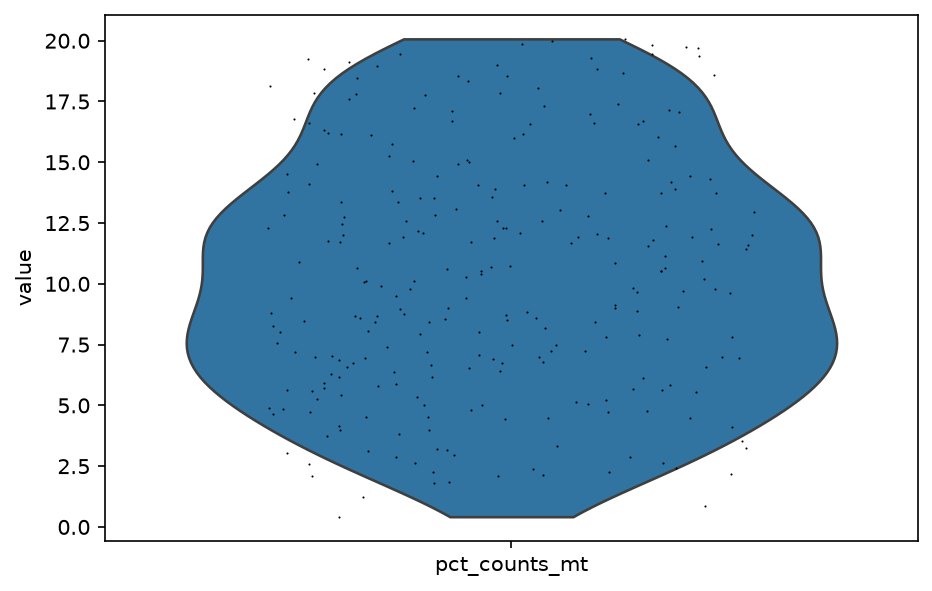
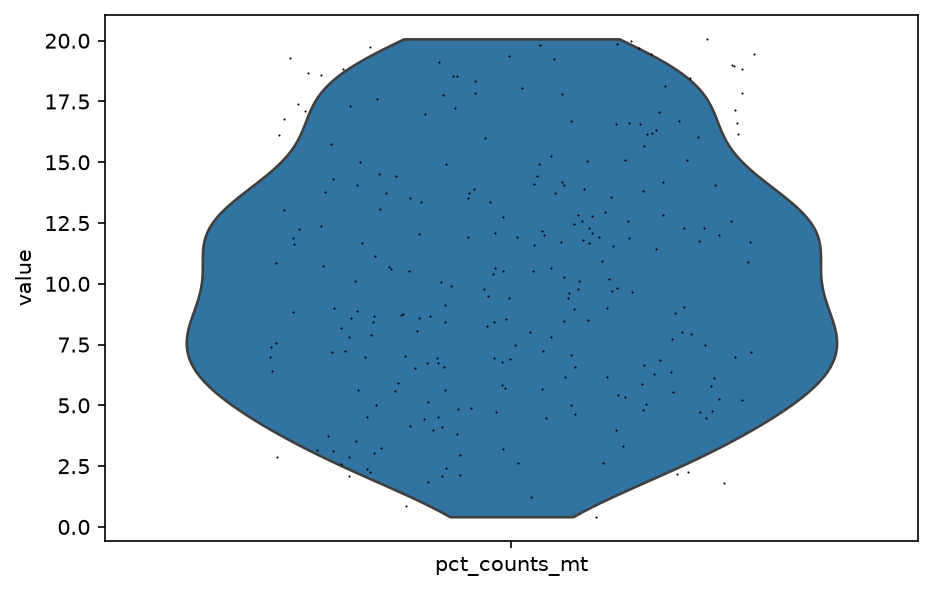
Add README, finalize documentation for portfolio release

diff --git a/scripts/05_load_to_db.py b/scripts/05_load_to_db.py
@@ -26,14 +26,17 @@ adata = sc.read_h5ad(f"{output_dir}/04_annotated.h5ad")
 
 con = duckdb.connect(d["db_path"])
 
+# Clear existing rows so this script can be re-run safely without duplicating data
 con.execute("DELETE FROM gene_expression_summary")
 con.execute("DELETE FROM clusters")
 con.execute("DELETE FROM qc_metrics")
 con.execute("DELETE FROM datasets")
 con.execute("DELETE FROM runs")
 
+# Read the raw cell count directly from the pre-QC file (backed mode: no full load)
 n_cells_raw = sc.read_h5ad(f"{output_dir}/01_loaded.h5ad", backed="r").n_obs
 
+# --- 1. datasets ---
 dataset_row = pd.DataFrame([{
     "id": 1, "accession": d["accession"], "n_cells_raw": n_cells_raw,
     "n_cells_after_qc": adata.n_obs, "download_date": d["download_date"],
@@ -41,6 +44,7 @@ dataset_row = pd.DataFrame([{
 }])
 con.execute("INSERT INTO datasets SELECT * FROM dataset_row")
 
+# --- 2. qc_metrics ---
 qc_row = pd.DataFrame([{
     "id": 1, "dataset_id": 1, "min_genes_threshold": q["min_genes"],
     "max_pct_mt_threshold": q["max_pct_mt"],
@@ -49,6 +53,7 @@ qc_row = pd.DataFrame([{
 }])
 con.execute("INSERT INTO qc_metrics SELECT * FROM qc_row")
 
+# --- 3. clusters ---
 crosstab = pd.crosstab(adata.obs["leiden"], adata.obs["cell_type"])
 
 cluster_rows = []
@@ -69,9 +74,13 @@ for leiden_label, row in crosstab.iterrows():
 clusters_df = pd.DataFrame(cluster_rows)
 con.execute("INSERT INTO clusters SELECT * FROM clusters_df")
 
+# --- 4. gene_expression_summary ---
 expr_rows = []
 next_expr_id = 1
 for gene, ensembl_id in gene_ids.items():
+    # Look up the row by symbol to get expression values, but always store the
+    # Ensembl ID verified in config/genes.yaml — never whatever the file's own
+    # index happens to use (it can mix Ensembl codes and gene symbols)
     match = adata.raw.var.loc[adata.raw.var["feature_name"] == gene]
     if match.empty:
         print(f"Warning: {gene} not found, skipping")
@@ -95,6 +104,9 @@ for gene, ensembl_id in gene_ids.items():
 expr_df = pd.DataFrame(expr_rows)
 con.execute("INSERT INTO gene_expression_summary SELECT * FROM expr_df")
 
+# --- 5. runs ---
+# Log the exact commit and versions used, so any result can be traced back to
+# the code that produced it
 git_commit = subprocess.check_output(["git", "rev-parse", "--short", "HEAD"], text=True).strip()
 
 run_row = pd.DataFrame([{

diff --git a/scripts/02_clean.py b/scripts/02_clean.py
@@ -13,10 +13,12 @@ with open(args.config) as f:
 output_dir = params["dataset"]["output_dir"]
 min_genes = params["qc"]["min_genes"]
 max_pct_mt = params["qc"]["max_pct_mt"]
-max_genes = params["qc"].get("max_genes")
+max_genes = params["qc"].get("max_genes")  # optional: guards against likely doublets
 
 adata = sc.read_h5ad(f"{output_dir}/01_loaded.h5ad")
 
+# Recompute QC metrics on raw counts — .X at this point holds normalized values,
+# which would give meaningless mitochondrial percentages if used directly
 adata.var["mt"] = adata.var["feature_name"].str.startswith("MT-")
 adata_raw = adata.raw.to_adata()
 adata_raw.var["mt"] = adata.var["mt"].values
@@ -26,18 +28,23 @@ adata.obs["total_counts"] = adata_raw.obs["total_counts"].values
 adata.obs["n_genes_by_counts"] = adata_raw.obs["n_genes_by_counts"].values
 adata.obs["pct_counts_mt"] = adata_raw.obs["pct_counts_mt"].values
 
-del adata_raw
+del adata_raw  # free this copy, we already extracted what we needed
 
+# Exact percentiles for picking thresholds precisely, complementing the plots below
 qc_summary = adata.obs[["n_genes_by_counts", "pct_counts_mt"]].describe(
     percentiles=[.01, .05, .25, .5, .75, .95, .99]
 )
 print(qc_summary)
 qc_summary.to_csv("figures/qc_summary.csv")
+print("Saved to figures/qc_summary.csv")
 
+# Plot distributions to choose/confirm thresholds visually
 save_fig(sc.pl.violin(adata, ["n_genes_by_counts"], jitter=0.3, show=False), "violin_qc_before.png")
 save_fig(sc.pl.violin(adata, ["pct_counts_mt"], jitter=0.3, show=False), "violin_qc_2_before.png")
 
+# Apply the QC thresholds decided from the plots and percentiles above
 n_before = adata.n_obs
+
 adata = adata[adata.obs["n_genes_by_counts"] >= min_genes, :]
 if max_genes is not None:
     adata = adata[adata.obs["n_genes_by_counts"] <= max_genes, :]

diff --git a/scripts/04_annotate.py b/scripts/04_annotate.py
@@ -17,19 +17,29 @@ resolution = params["clustering"]["leiden_resolution"]
 
 adata = sc.read_h5ad(f"{output_dir}/03_clustered.h5ad")
 
+# Build a neighborhood graph using the number of PCs chosen from the elbow plot
 sc.pp.neighbors(adata, n_pcs=n_pcs)
+
+# Compute UMAP coordinates for visualization
 sc.tl.umap(adata)
+
+# Cluster cells into groups based on their neighborhood graph
 sc.tl.leiden(adata, resolution=resolution, flavor="igraph", n_iterations=2, directed=False)
 
+# Visualize clusters alongside the cell types already annotated in this dataset
 ax = sc.pl.umap(adata, color=["leiden", "cell_type"], show=False)
 save_fig(ax, "umap_clusters.png")
 
 adata.write(f"{output_dir}/04_annotated.h5ad")
 print(f"Saved to {output_dir}/04_annotated.h5ad")
 
+# Compare discovered clusters against the dataset's own cell-type annotation
 crosstab = pd.crosstab(adata.obs["leiden"], adata.obs["cell_type"])
 print(crosstab)
 
+# Sanity check: a marker gene known to be high in a specific cell type,
+# confirms the pipeline's biology looks right before trusting the results
 positive_control_gene = params["sanity_check"]["positive_control_gene"]
 ax = sc.pl.violin(adata, [positive_control_gene], groupby="cell_type", rotation=90, show=False)
 save_fig(ax, f"violin_{positive_control_gene.lower()}_check.png")
+print(f"Sanity check saved: figures/violin_{positive_control_gene.lower()}_check.png")

diff --git a/scripts/00_check_genes.py b/scripts/00_check_genes.py
@@ -1,18 +1,30 @@
+import argparse
 import scanpy as sc
 import yaml
 
-with open("config/params.yaml") as f:
+# Accept a config file from the command line, defaulting to the real dataset —
+# lets this script run against either the real or the test config without edits
+parser = argparse.ArgumentParser()
+parser.add_argument("--config", default="config/params.yaml")
+args = parser.parse_args()
+
+with open(args.config) as f:
     params = yaml.safe_load(f)
 
+# This script always reads the ORIGINAL CELLxGENE file, never a processed one —
+# var_names here are still Ensembl IDs, so we can look genes up directly by code
 adata = sc.read_h5ad(params["dataset"]["input_path"])
 
 with open("config/genes.yaml") as f:
     ids = yaml.safe_load(f)["genes"]
 
 genes = list(ids.keys())
+
+# Sanity check 1: confirm the genes are even listed in this dataset's annotation
 found = adata.var[adata.var["feature_name"].isin(genes)]
 print(found)
 
+# Sanity check 2: confirm they're actually detected in cells, not just annotated
 print("\n--- detection per cell ---")
 for name, ensg in ids.items():
     values = adata.raw[:, ensg].X

diff --git a/scripts/03_cluster.py b/scripts/03_cluster.py
@@ -15,20 +15,29 @@ output_dir = params["dataset"]["output_dir"]
 
 adata = sc.read_h5ad(f"{output_dir}/02_cleaned.h5ad")
 
+# Start from raw counts again, not the pre-processed X from the original file
 adata = adata.raw.to_adata()
+
+# Keep a copy of raw counts before transforming anything
 adata.layers["counts"] = adata.X.copy()
 
+# Normalize: make every cell's total count comparable, then log-transform
 sc.pp.normalize_total(adata, target_sum=1e4)
 sc.pp.log1p(adata)
 
+# Find the genes that vary the most across cells — these carry the real signal
 sc.pp.highly_variable_genes(adata, n_top_genes=2000)
 
+# Save the full normalized data before subsetting to HVGs only,
+# so genes of interest remain queryable even if not "highly variable"
 adata.raw = adata
 adata = adata[:, adata.var.highly_variable]
 
+# Scale so every gene contributes equally to the PCA
 sc.pp.scale(adata, max_value=10)
 sc.tl.pca(adata, svd_solver="arpack")
 
+# Elbow plot: helps decide how many PCs actually carry signal (set in config)
 sc.pl.pca_variance_ratio(adata, n_pcs=50, show=False)
 save_fig(plt.gcf(), "pca_variance_ratio_elbow.png")
 

diff --git a/scripts/create_db.py b/scripts/create_db.py
@@ -11,8 +11,11 @@ with open(args.config) as f:
 
 db_path = params["dataset"]["db_path"]
 
+# Creates a fresh .duckdb file (or connects to it if it already exists)
 con = duckdb.connect(db_path)
 
+# Apply the table definitions — will fail if the tables already exist,
+# which is intentional: it protects against silently overwriting a schema
 with open("scripts/schema.sql") as f:
     con.execute(f.read())
 

diff --git a/scripts/06_query.py b/scripts/06_query.py
@@ -14,6 +14,8 @@ db_path = params["dataset"]["db_path"]
 
 con = duckdb.connect(db_path)
 
+# JOIN pulls in cluster metadata (cell type, size) alongside the expression
+# numbers, which live in separate tables by design
 result = con.execute("""
     SELECT
         c.leiden_label,

diff --git a/README.md b/README.md
@@ -1,0 +1,46 @@
+
+## Quickstart
+
+```bash
+# Environment
+conda create -n prostata python=3.11 -y
+conda activate prostata
+pip install -r requirements.txt
+
+# Run the full pipeline on the small test dataset (already included in the repo)
+python scripts/create_db.py --config config/params.test.yaml
+python scripts/01_load.py --config config/params.test.yaml
+python scripts/02_clean.py --config config/params.test.yaml
+python scripts/03_cluster.py --config config/params.test.yaml
+python scripts/04_annotate.py --config config/params.test.yaml
+python scripts/05_load_to_db.py --config config/params.test.yaml
+
+# Query the results
+python scripts/06_query.py --gene PCA3 --config config/params.test.yaml
+```
+
+To reproduce the full result on the 68,322-cell dataset: download it from [CELLxGENE](https://cellxgene.cziscience.com/e/881e0e6b-a185-45f1-9b56-81606e91e7ff.cxg/) (accession `68b23fda-7191-46a5-8870-819feca3e66e`), place it at the path set in `config/params.yaml`, and run the same six commands without `--config` (it defaults to `config/params.yaml`).
+
+## Database schema
+
+Five tables in DuckDB: `datasets`, `qc_metrics`, `clusters`, `gene_expression_summary`, and `runs` — the last one logs the exact git commit, package versions, and parameters used for each run, so any result can be traced back to the code that produced it. Foreign keys enforce referential integrity between tables.
+
+## Reproducibility
+
+Every parameter (QC thresholds, number of PCA components, positive-control gene, dataset paths) lives in a single YAML config, never hardcoded in the scripts — switching datasets or re-running with different thresholds never requires touching code. `tests/test_pipeline.py` runs the entire pipeline end-to-end against the small test dataset and verifies the database is populated correctly; this runs automatically on every push via GitHub Actions.
+
+## Limitations
+
+- This is an exploratory analysis, not a publication-ready finding. The PCA3–malignancy association is correlational, observed within a single dataset, and has not been statistically tested or corrected for patient-of-origin (cells from the same donor are not independent samples, and some clusters may be dominated by a small number of patients out of the cohort's 24).
+- The doublet-suspicious upper threshold on genes-per-cell was chosen visually/by percentile, not with a dedicated doublet-detection tool.
+- Leiden clustering resolution and the number of PCA components were chosen from the elbow plot and are not exhaustively optimised.
+
+## Data source
+
+Apostolov, E., Roden, D. L., Holliday, H., Cazet, A., Harvey, K., Zhang, H., Wu, S. Z., van der Leij, S., Jieun Kim, H., Selth, L. A., Bartonicek, N., Al-Eryani, G., Reeves, J. L., He, M., Lundeberg, J., Potter, A. J., Kench, J. G., Stricker, P. D., Joshua, A. M., Horvath, L. G., … Swarbrick, A. (2026). *Single-Cell and Spatial Transcriptomic Profiling Reveals Epithelial Functional States and Fibroblast Phenotypes in Hormone Therapy-Naïve Localized Prostate Cancer*. Cancer Research, 86(8), 1836–1853. https://doi.org/10.1158/0008-5472.CAN-25-1202
+
+Data accessed via [CELLxGENE Discover](https://cellxgene.cziscience.com/collections/bdac7a53-fe34-4f04-8c46-f9bd5297c099).
+
+## Author
+
+Pedro Carrillo Alarcón — MSc Bioinformatics — [github.com/Maxip2003](https://github.com/Maxip2003)
